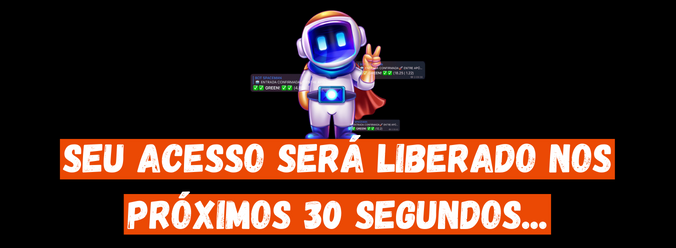
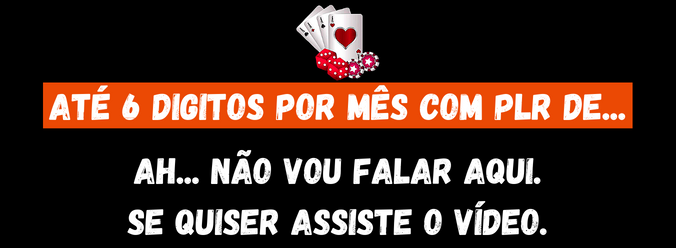
Add files via upload

diff --git a/index.html b/index.html
@@ -5,7 +5,7 @@
 <head>
 <meta charset="utf-8">
 <meta name="viewport" content="width=device-width, initial-scale=1, shrink-to-fit=no">
-<title>SpaceMan - Bot Vip</title>
+<title>PLR 6 Dígitos</title>
 <link rel="shortcut icon" href="./files/favicon.ico">
 <link rel="stylesheet" href="https://stackpath.bootstrapcdn.com/bootstrap/4.1.3/css/bootstrap.min.css" integrity="sha384-MCw98/SFnGE8fJT3GXwEOngsV7Zt27NXFoaoApmYm81iuXoPkFOJwJ8ERdknLPMO" crossorigin="anonymous">
 <link href="https://fonts.googleapis.com/css2?family=Cabin&family=Montserrat&family=Open+Sans&family=Oswald&display=swap" rel="stylesheet">
@@ -45,7 +45,7 @@ html {overflow-x:hidden}
 #division-1657813287709 {
 position: relative;
 padding: 2vh 20vw 2vh 20vw;
-background-color: #EB4904;
+background-color: #000000;
 }
 @media (max-width:1200px) {
 #division-1657813287709 {
@@ -86,7 +86,7 @@ text-align: center;
 </style>
 <div class="text-16578133316969nqkcl-element text">
 <p>
-<span style="color: #F2F2F2"><b><span class="sm">11 Pessoas de <span id="address" style="color:#F4FA58;">São Paulo</span> Foram Selecionadas Para Participar GRATUITAMENTE.</span></b></span>&nbsp;<b><span class="lg"></span>&nbsp;</b>
+<span style="color: #FFFFFFF"><b><span class="sm"><span id="" style="color:#FFFFFF;"></span></span></b></span>&nbsp;<b><span class="lg"></span>&nbsp;</b>
 </p>
 <script src="https://ajax.googleapis.com/ajax/libs/jquery/3.5.1/jquery.min.js"></script>
 <script>$.get("https://ipinfo.io/json", function (response) { $("#address").html(response.city);
@@ -296,20 +296,9 @@ text-align: center;
 <img src="./files/ultrasecreto4.png" class="img-fluid my-3">
 </div>
 </div>
-<div id="vid_640fda7bdbc23e00099d9894" style="position:relative;width:100%;padding: 56.25% 0 0;"><img id="thumb_640fda7bdbc23e00099d9894" src="https://images.converteai.net/3260c5c9-24f8-4f72-8709-7bebbe68b937/players/640fda7bdbc23e00099d9894/thumbnail.jpg" style="position:absolute;top:0;left:0;width:100%;height:100%;object-fit:cover;display:block;"><div id="backdrop_640fda7bdbc23e00099d9894" style="position:absolute;top:0;width:100%;height:100%;-webkit-backdrop-filter:blur(5px);backdrop-filter:blur(5px);"></div></div><script type="text/javascript" id="scr_640fda7bdbc23e00099d9894">var s=document.createElement("script");s.src="https://scripts.converteai.net/3260c5c9-24f8-4f72-8709-7bebbe68b937/players/640fda7bdbc23e00099d9894/player.js",s.async=!0,document.head.appendChild(s);</script>
+<div id="vid_6413e0f056184700096a66f8" style="position:relative;width:100%;padding: 56.25% 0 0;"><img id="thumb_6413e0f056184700096a66f8" src="https://images.converteai.net/3260c5c9-24f8-4f72-8709-7bebbe68b937/players/6413e0f056184700096a66f8/thumbnail.jpg" style="position:absolute;top:0;left:0;width:100%;height:100%;object-fit:cover;display:block;"><div id="backdrop_6413e0f056184700096a66f8" style="position:absolute;top:0;width:100%;height:100%;-webkit-backdrop-filter:blur(5px);backdrop-filter:blur(5px);"></div></div><script type="text/javascript" id="scr_6413e0f056184700096a66f8">var s=document.createElement("script");s.src="https://scripts.converteai.net/3260c5c9-24f8-4f72-8709-7bebbe68b937/players/6413e0f056184700096a66f8/player.js",s.async=!0,document.head.appendChild(s);</script>
 
-<div id="cta1" class="mt-4 d-none">
-<a href="https://bit.ly/cadastrogratuitoplayp" class="a-btn" style="text-decoration: none;">
-<span class="span-btn">FAÇA O CADASTRO E GANHE ATÉ R$ 500 DE BÔNUS</span><BR>
-<span class="span-btn2">CLIQUE AQUI</span>
-</a>
-</div>
 
-<div id="cta2" class="mt-4 d-none">
-<a href="https://t.me/botvipspaceman" class="a-btn" style="text-decoration: none;">
-<span class="span-btn">ENTRAR NO GRUPO DO TELEGRAM</span><BR>
-<span class="span-btn2">CLIQUE AQUI)</span>
-</a>
 </div>
 </div>
 </div>
@@ -326,7 +315,7 @@ de Segunda a Sextas das 09h00 ás 18h00. Lemos e respondemos todas as mensagens 
 <div class="col-xs-12 col-md-6">
 <div class="row cpy">
 <div class="col text-center">
-Copyright 2023 - SpaceMan - Bot Vip ®<br>
+Copyright 2023 - PLR 6 Dígitos ®<br>
 Todos os direitos reservados.
 </div>
 </div>
@@ -357,7 +346,7 @@ document.oncontextmenu=new Function("return false")
 </script>
 <Body onselectstart="return false">
 <script type="text/javascript">
-      setTimeout(() => {document.getElementById("cta1").classList.remove("d-none"); document.getElementById("cta2").classList.remove("d-none")}, 30000); // temporização da Call to Action (em milissegundos)
+      setTimeout(() => {document.getElementById("cta1").classList.remove("d-none"); document.getElementById("cta2").classList.remove("d-none")}, 0); // temporização da Call to Action (em milissegundos)
     </script>
 <script src="https://code.jquery.com/jquery-3.3.1.slim.min.js" integrity="sha384-q8i/X+965DzO0rT7abK41JStQIAqVgRVzpbzo5smXKp4YfRvH+8abtTE1Pi6jizo" crossorigin="anonymous"></script>
 <script src="https://cdnjs.cloudflare.com/ajax/libs/popper.js/1.14.3/umd/popper.min.js" integrity="sha384-ZMP7rVo3mIykV+2+9J3UJ46jBk0WLaUAdn689aCwoqbBJiSnjAK/l8WvCWPIPm49" crossorigin="anonymous"></script>
